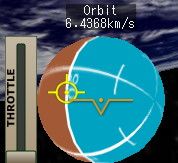
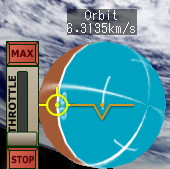
Update README.md to include throttle max and stop buttons

diff --git a/README.md b/README.md
@@ -55,11 +55,17 @@ This icon is shown on the apoapsis of current orbit.
 
 ### Navigation ball/Throttle bar
 
-![navball](screenshots/navball.jpg)
-
 On the bottom of the screen is the navigation ball and throttle bar.
 
-Clicking on the throttle bar on the left will control the throttle.
+![navball](screenshots/navball.jpg)
+
+#### Throttle bar
+
+* Clicking and dragging on the throttle bar on the left will control the throttle.
+* Clicking on the max button will make the throttle maximum (maximum acceleration).
+* Clicking on the stop button will halt the engine (zero acceleration).
+
+#### Navigation ball
 
 The navigation ball on the right indicates the orientation of the vehicle
 in relation to currently orbiting body.
